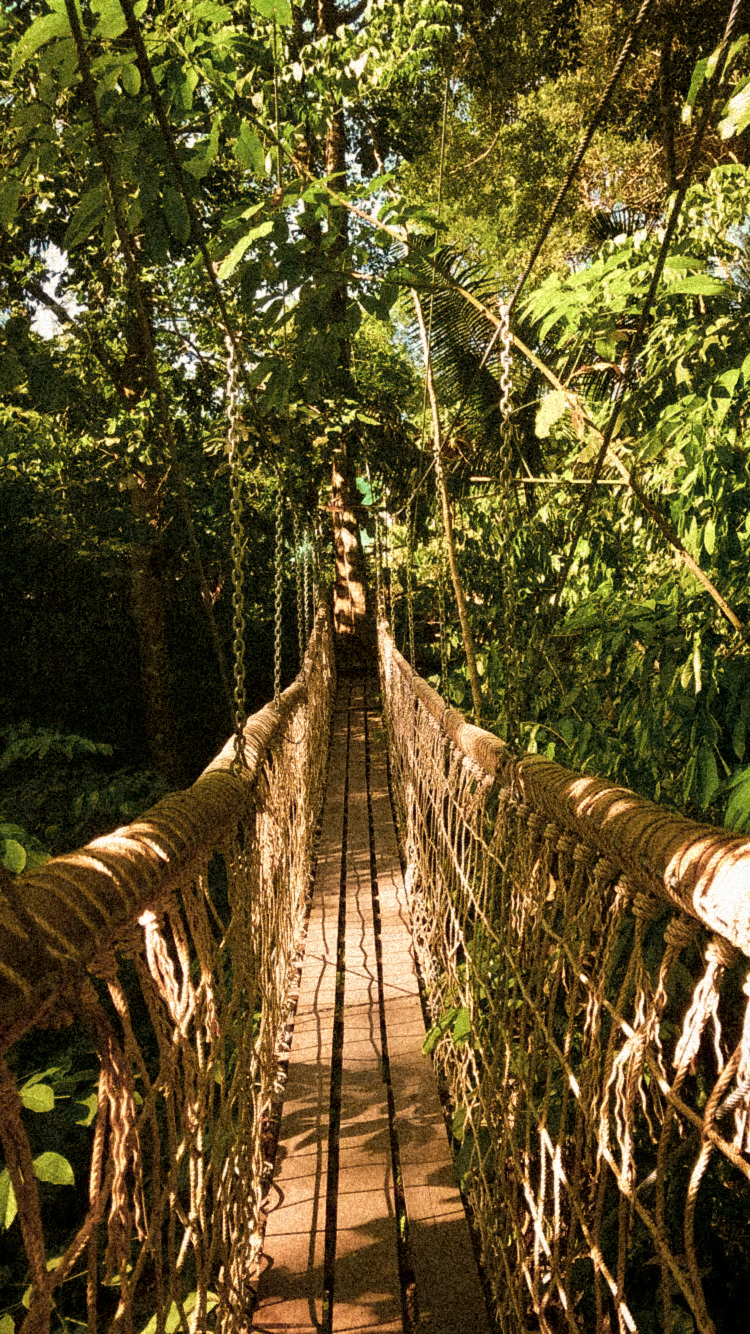
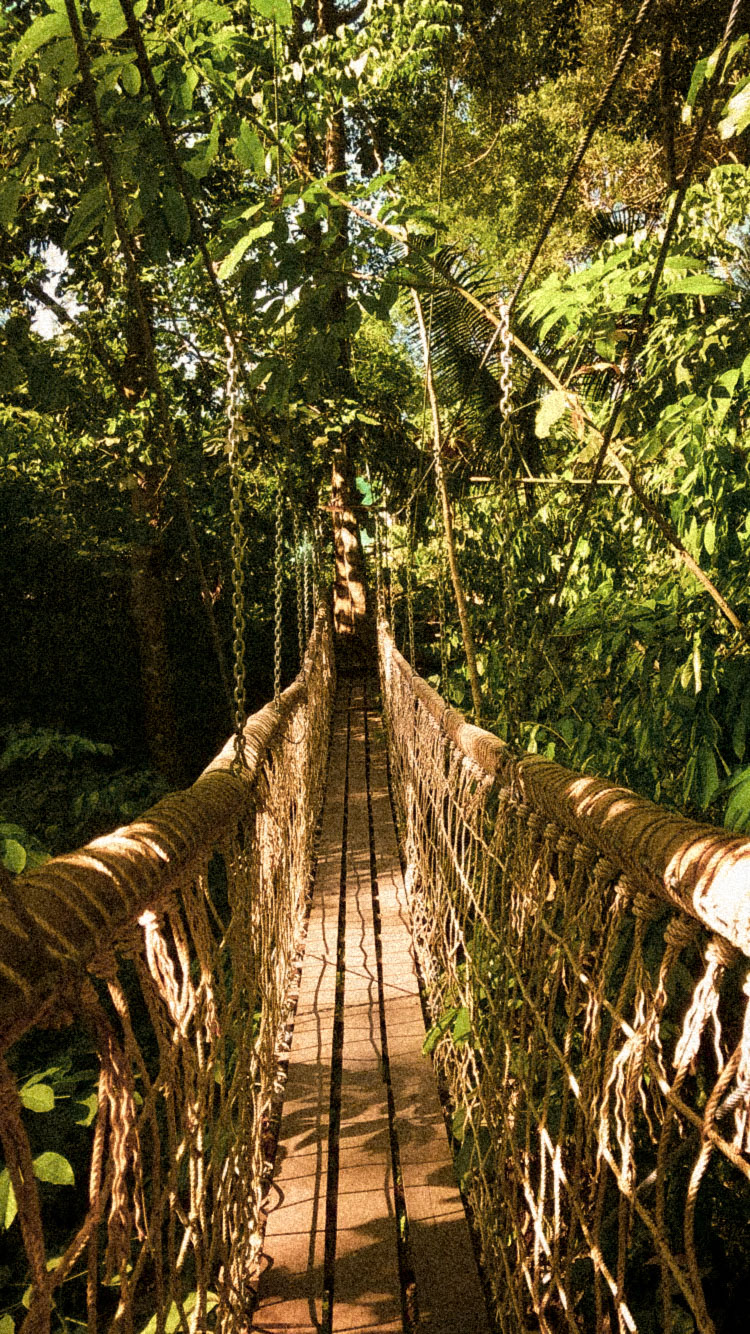
Pushing new and lower quality image sizes

diff --git a/Adventures.html b/Adventures.html
@@ -21,7 +21,7 @@
     </ul>
 
     <main class="Galleri">
-        <img src="IMG_3412.jpg" class="Bilde">
+        <img src="IMG_3412.jpg" class="Bilde" loading="eager">
         <img src="IMG_1437.jpg" class="Bilde">
         <img src="IMG_0668.jpg" class="Bilde">
         <img src="IMG_3260.jpg" class="Bilde">
@@ -35,16 +35,3 @@
         <footer>
             <p>&copy; 2024 Henning Unstad. All rights reserved<br>Made with love (and some sweat and frustration)</p>
         </footer>
-
-        <script>
-            const images = Array.from(document.querySelectorAll('.Bilde[data-src]'));
-            
-            async function loadImagesSequentially() {
-                for (const img of images) {
-                    img.src = img.dataset.src;
-                    await new Promise(resolve => img.onload = resolve);
-                }
-            }
-            
-            loadImagesSequentially();
-        </script>

diff --git a/Lofoten.html b/Lofoten.html
@@ -20,7 +20,7 @@
     </ul>
 
     <main class="Galleri">
-        <img src="IMG_2038.jpg" class="Bilde">
+        <img src="IMG_2038.jpg" class="Bilde" loading="eager">
         <img src="IMG_2130.jpg" class="Bilde">
         <img src="IMG_2445.jpg" class="Bilde">
         <img src="IMG_3571-2.jpg" class="Bilde">
